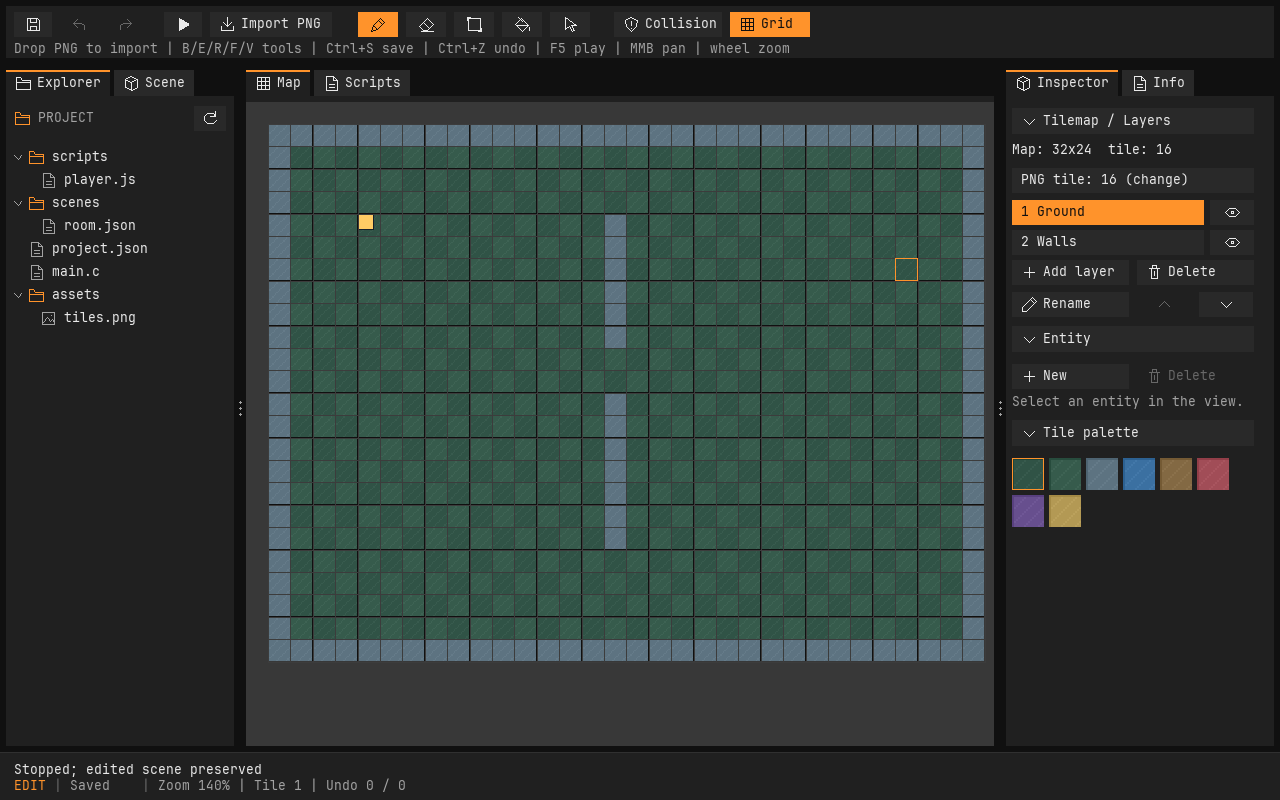
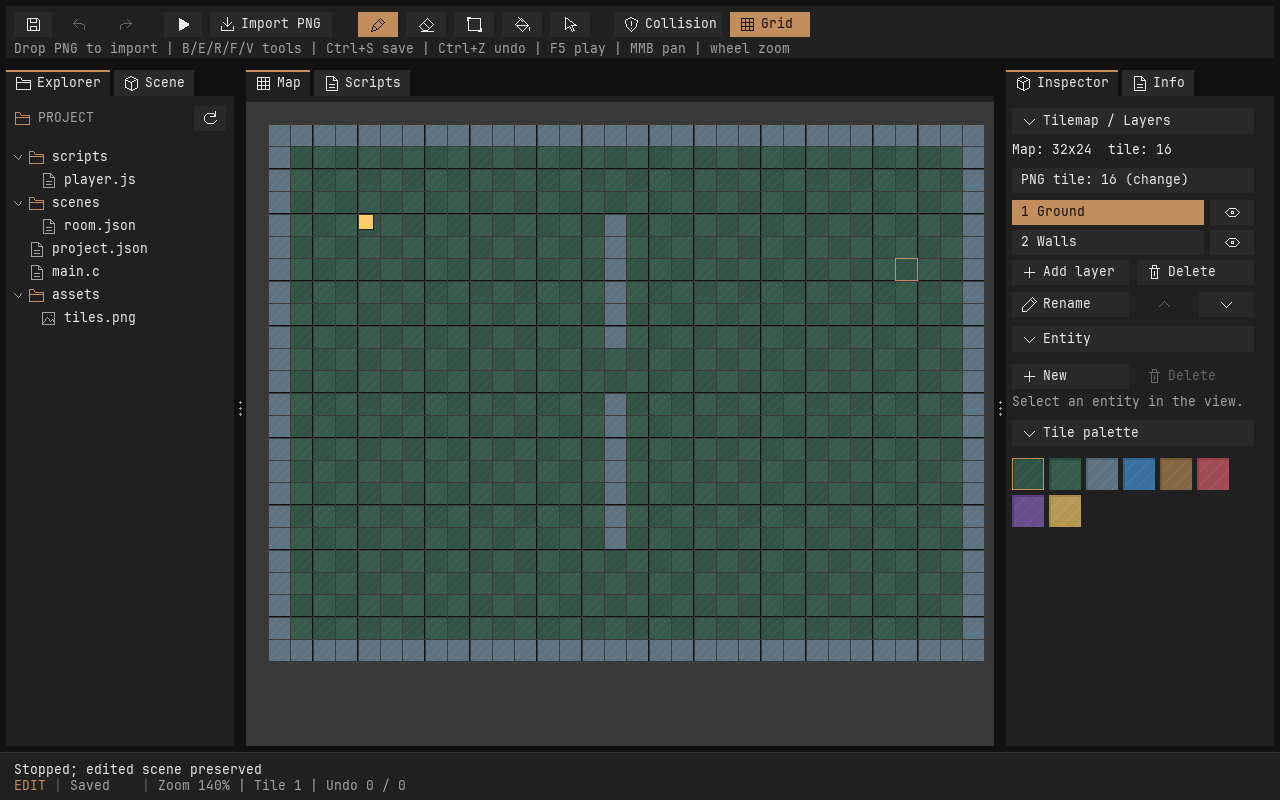
Soften orange UI accents to a muted warm tone

Changed region(s): [[0.5625, 0.0, 0.6562, 0.0625], [0.7812, 0.25, 0.9375, 0.2812], [0.2812, 0.0, 0.3125, 0.0625]]

diff --git a/ui/include/penguin/ui_sdl.h b/ui/include/penguin/ui_sdl.h
@@ -8,8 +8,8 @@
 #define UI_SURFACE 0x292929ffu
 #define UI_BORDER 0x303030ffu
 #define UI_HOVER 0x393939ffu
-#define UI_ACCENT 0xff932bffu
-#define UI_ACCENT_BG 0xff932bffu
+#define UI_ACCENT 0xc28e5cffu
+#define UI_ACCENT_BG 0xc28e5cffu
 #define UI_TEXT 0xe9e9e9ffu
 #define UI_MUTED 0xa2a2a2ffu
 #define UI_DISABLED 0x686868ffu

diff --git a/docs/UI_BIBLIOTHEK.md b/docs/UI_BIBLIOTHEK.md
@@ -39,7 +39,7 @@ Das Standardtheme verwendet unter anderem:
 | Panel | `#181818` |
 | Button | `#242424` |
 | Hover | `#333333` |
-| Akzent | `#FF932B` |
+| Akzent | `#C28E5C` |
 
 `ui_dark_theme()` liefert ein Theme als Wert. Spiele können eine Kopie ändern und an `ui_draw_button_themed()` übergeben. Es wird kein globales Theme verändert. Die bestehenden Kurzfunktionen wie `ui_draw_button()` verwenden das Standardtheme.
 
